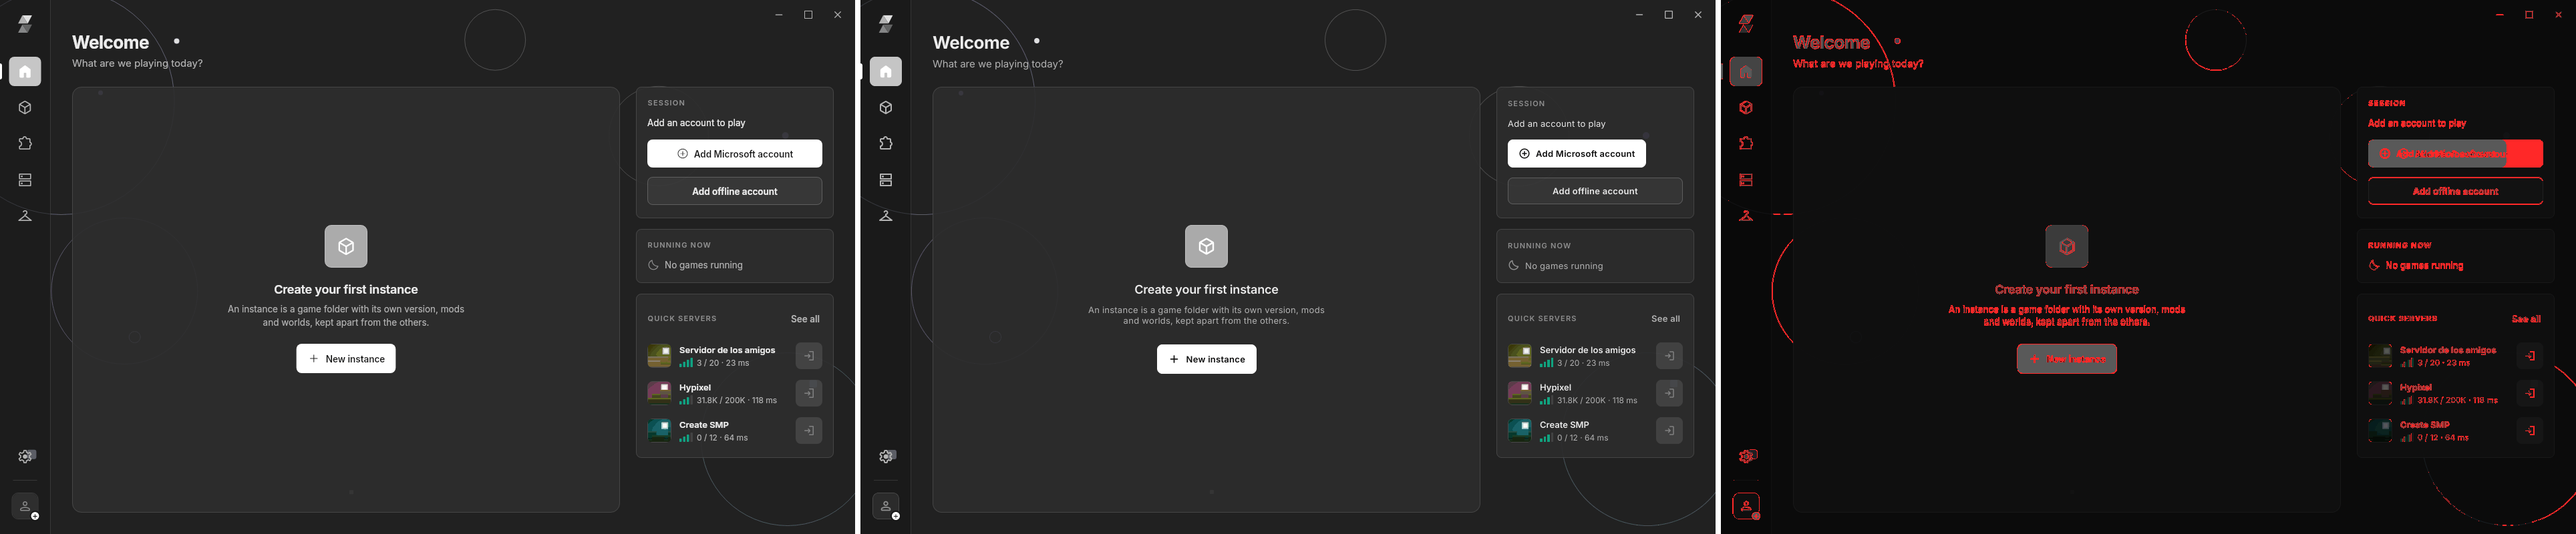
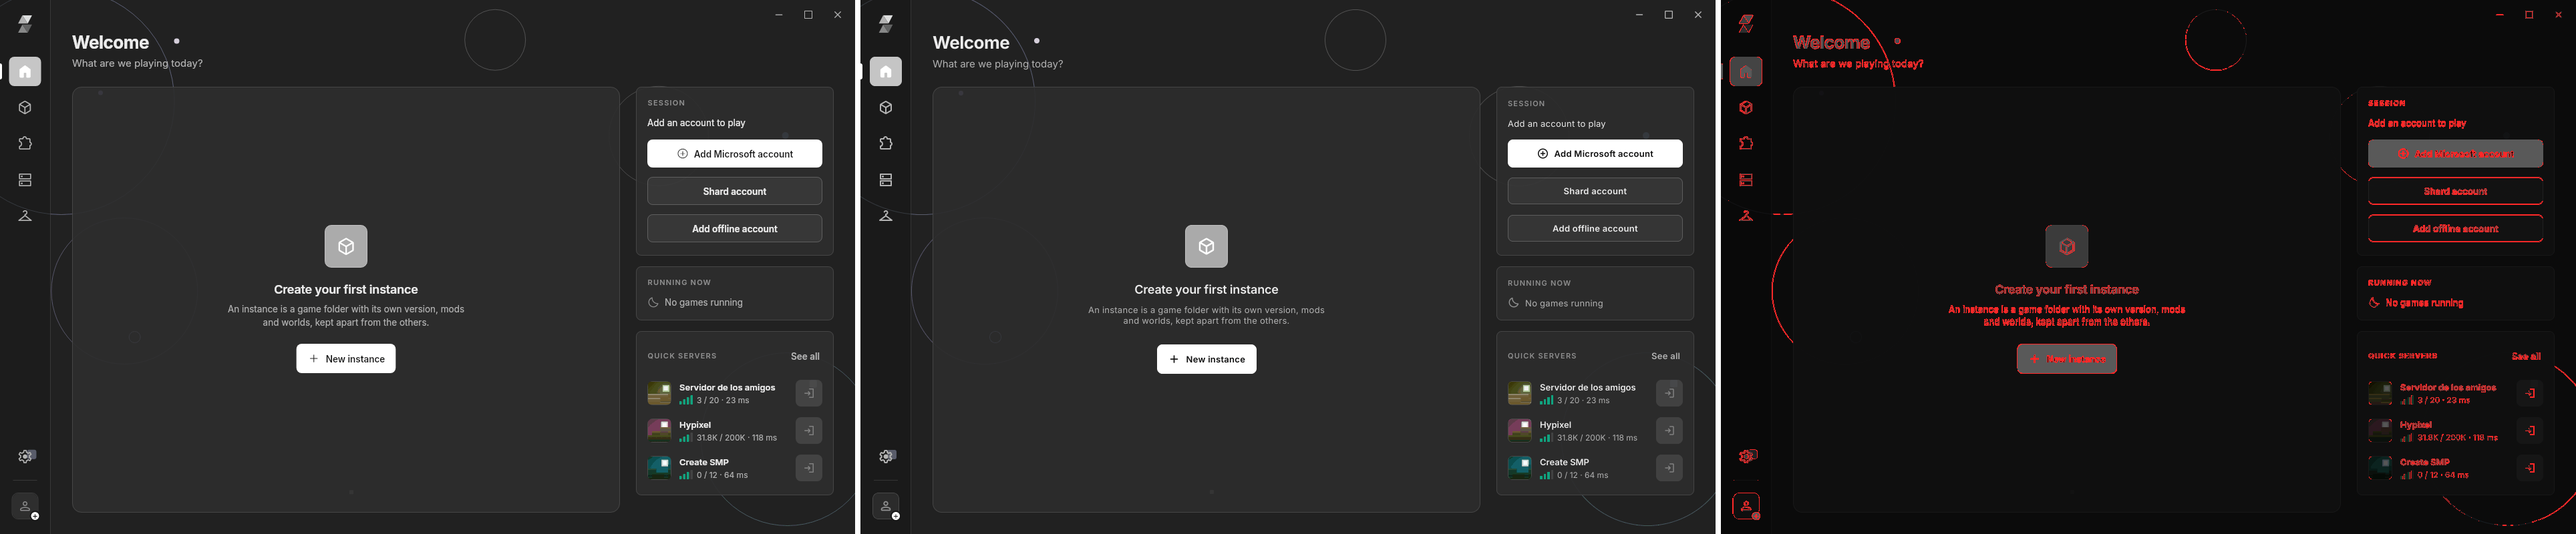
Inicio: cuenta Shard en la tarjeta Sesión (lo que main añadió a Flutter) y su error de credenciales

diff --git a/ui/src/controller.rs b/ui/src/controller.rs
@@ -40,6 +40,7 @@ pub trait Actions {
     fn accounts(&self) {}
     fn add_microsoft_account(&self) {}
     fn add_offline_account(&self) {}
+    fn add_shard_account(&self) {}
     /// Añadir servidor (fase 4).
     fn add_server(&self) {}
     /// Doctor (fase 5).
@@ -204,6 +205,7 @@ impl Controller {
         on!(ctl, hs, on_change_account, |c| c.actions.accounts());
         on!(ctl, hs, on_add_microsoft, |c| c.actions.add_microsoft_account());
         on!(ctl, hs, on_add_offline, |c| c.actions.add_offline_account());
+        on!(ctl, hs, on_add_shard, |c| c.actions.add_shard_account());
         on!(ctl, hs, on_add_server, |c| c.actions.add_server());
         on!(ctl, hs, on_diagnose, |c, id| c.actions.diagnose(&id));
         on!(ctl, hs, on_show_logs, |c, id| c.actions.show_logs(&id));
@@ -443,10 +445,12 @@ impl Controller {
         ui.global::<HomeState>().set_session_face(name.map(|n| face::painted_face(n, 42.0, scale)).unwrap_or_default());
     }
 
-    /// ¿La cuenta activa es de Microsoft? (tarjeta Sesión de Inicio).
-    pub fn set_account_microsoft(&self, microsoft: bool) {
+    /// Tipo de la cuenta activa (tarjeta Sesión de Inicio).
+    pub fn set_account_kind(&self, microsoft: bool, shard: bool) {
         if let Some(ui) = self.ui.upgrade() {
-            ui.global::<HomeState>().set_account_microsoft(microsoft);
+            let hs = ui.global::<HomeState>();
+            hs.set_account_microsoft(microsoft);
+            hs.set_account_shard(shard);
         }
     }
 

diff --git a/ui/src/errors.rs b/ui/src/errors.rs
@@ -13,6 +13,7 @@ pub fn key(kind: &str) -> &'static str {
         "auth_device_code_expired" => "errAuthExpired",
         "auth_session_expired" | "auth_refresh_token_missing" => "errAuthSessionExpired",
         "auth_invalid_offline_name" => "offlineNameInvalid",
+        "auth_invalid_credentials" => "errAuthInvalidCredentials",
         "auth_msa" | "auth_unexpected" | "auth_offline_account" => "errAuthGeneric",
         "network" | "http_status" => "errNetwork",
         "offline" => "errOffline",
@@ -42,7 +43,7 @@ mod tests {
     fn todas_las_claves_existen_en_los_arb() {
         let kinds = [
             "auth_missing_client_id", "auth_app_not_approved", "auth_not_entitled", "auth_no_profile", "auth_xbox",
-            "auth_declined", "auth_device_code_expired", "auth_session_expired", "auth_invalid_offline_name", "auth_msa",
+            "auth_declined", "auth_device_code_expired", "auth_session_expired", "auth_invalid_offline_name", "auth_invalid_credentials", "auth_msa",
             "network", "offline", "java_required", "game_already_running", "instance_not_found", "account_not_found",
             "version_not_found", "hash_mismatch", "io", "invalid_input", "curseforge_key_missing", "secrets",
             "update_rejected", "otro",

diff --git a/ui/tests/interaccion.rs b/ui/tests/interaccion.rs
@@ -282,6 +282,9 @@ fn hero_phase(ui: &MainWindow) -> LaunchPhase {
 
 fn inicio_y_cambiar_instancia() {
     let a = home_app("es");
+    a.ctl.set_account_kind(false, true);
+    settle();
+    by_label(&a.ui, "Cuenta Shard");
     assert_eq!(a.ui.get_route(), Route::Home);
     assert_eq!(by_id(&a.ui, "txt-greeting")[0].accessible_label().as_deref(), Some("Hola, NadiaK"));
     // La tarjeta grande es la última jugada; las recientes, las tres siguientes.
@@ -444,6 +447,9 @@ fn sin_cuenta_ni_instancias() {
     settle();
     assert_eq!(by_id(&a.ui, "txt-greeting")[0].accessible_label().as_deref(), Some("Welcome"));
     assert_eq!(by_id(&a.ui, "no-instances").len(), 1);
+    // Sin cuenta: Microsoft, Shard (Yggdrasil) u offline.
+    by_label(&a.ui, "Shard account");
+    by_label(&a.ui, "Add offline account");
     click(&by_label(&a.ui, "New instance"));
     assert_eq!(a.log.0.borrow().last().unwrap(), "new");
 }

diff --git a/ui/src/backend.rs b/ui/src/backend.rs
@@ -90,7 +90,8 @@ impl Backend {
             let active = core.accounts().await.ok().and_then(|f| f.active_account().cloned());
             post(move |c| {
                 c.set_account(active.as_ref().map(|a| a.name.as_str()));
-                c.set_account_microsoft(active.as_ref().is_some_and(|a| a.kind == lcore::auth::AccountKind::Msa));
+                let kind = active.as_ref().map(|a| a.kind);
+                c.set_account_kind(kind == Some(lcore::auth::AccountKind::Msa), kind == Some(lcore::auth::AccountKind::Shard));
             });
             me.load_servers();
         });
@@ -261,6 +262,10 @@ impl Actions for CoreActions {
 
     fn add_offline_account(&self) {
         tracing::info!("cuenta offline: pendiente (fase 2)");
+    }
+
+    fn add_shard_account(&self) {
+        tracing::info!("cuenta Shard: pendiente (fase 2)");
     }
 
     fn add_server(&self) {

diff --git a/ui/tests/paridad.rs b/ui/tests/paridad.rs
@@ -47,7 +47,7 @@ struct Scene {
 /// Microsoft, servidores con su estado).
 fn home(c: &Controller, ui: &MainWindow) {
     ui.set_route(Route::Home);
-    c.set_account_microsoft(true);
+    c.set_account_kind(true, false);
     c.set_instances(fixtures::sample_instances());
     c.set_servers(fixtures::sample_servers());
     c.set_statuses(fixtures::sample_statuses());

diff --git a/docs/slint/PLAN.md b/docs/slint/PLAN.md
@@ -390,15 +390,16 @@ marcha, carga/error/vacío, raíl, diálogo de cierre, sin bandeja).
 
 **Paridad** (`tools/paridad.sh all`, informe y capturas lado a lado en
 `docs/slint/paridad-f1/`). Referencias nuevas creadas con el método de F0
-(`parity_ref_test.dart`, `--refs`): las 11 salen idénticas byte a byte a sus
-goldens.
+(`parity_ref_test.dart`, `--refs`): salen idénticas byte a byte a sus
+goldens, salvo `home_empty_en`, que ya incluye el botón «Cuenta Shard» que
+`main` añadió a Flutter sin regenerar su golden.
 
 | escena | SSIM | cajas ±2 px |
 |---|---|---|
 | home_es | 0,9758 | 19/19 |
 | home_downloading_es | 0,9700 | 20/20 |
 | home_error_es | 0,9720 | 20/20 |
-| home_empty_en | 0,9711 | 8/8 |
+| home_empty_en | 0,9708 | 8/8 |
 | home_style_graphite_es | 0,9757 | 19/19 |
 | home_style_sebaspi_es | 0,9701 | 19/19 |
 | home_style_landscape_es | 0,9731 | 19/19 |

diff --git a/docs/slint/paridad-f1/informe.md b/docs/slint/paridad-f1/informe.md
@@ -6,7 +6,7 @@ Umbral: SSIM ≥ 0.97, cajas ±2.0 px (textos y botones `-btn`: x, y, alto; boto
 |---|---|---|---|---|
 | crash_banner_es | 0.9738 | 20/20 | 2.36 % | ok |
 | home_downloading_es | 0.9700 | 20/20 | 2.52 % | ok |
-| home_empty_en | 0.9711 | 8/8 | 2.04 % | ok |
+| home_empty_en | 0.9708 | 8/8 | 1.94 % | ok |
 | home_error_es | 0.9720 | 20/20 | 2.41 % | ok |
 | home_es | 0.9758 | 19/19 | 2.13 % | ok |
 | home_style_aurora_es | 0.9755 | 19/19 | 2.08 % | ok |
